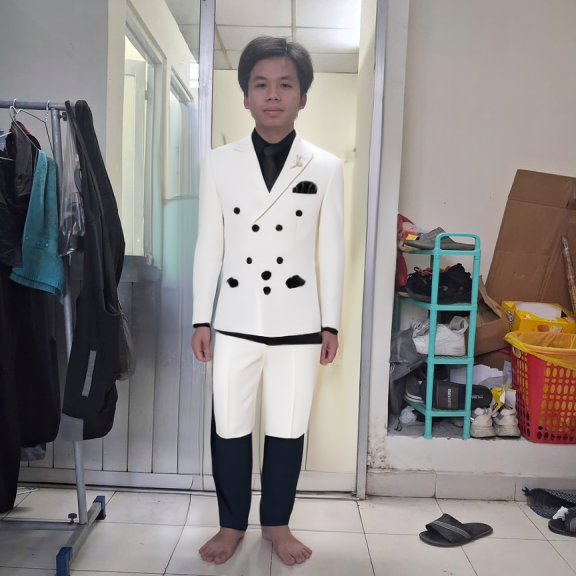
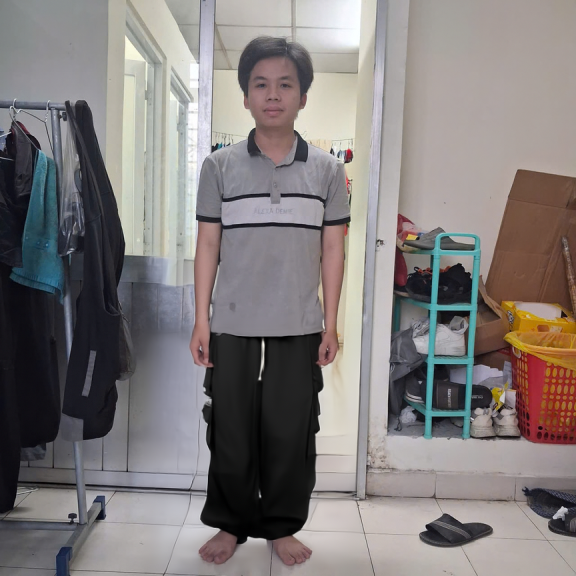
Upload collect data

Changed region(s): [[0.25, 0.1562, 0.7188, 0.9688], [0.6562, 0.5, 0.6875, 0.5312]]

diff --git a/backend/Commercial_Server/models/User.js b/backend/Commercial_Server/models/User.js
@@ -1,0 +1,27 @@
+class User {
+  constructor({
+    id,
+    username,
+    passwordHash, // nên trùng với cột DB password_hash
+    firstName,
+    lastName,
+    address,
+    idCard,
+    phone,
+    createdAt, // nếu muốn lấy created_at từ DB
+    lastLogin,
+  }) {
+    this.id = id; // auto-increment trong DB
+    this.username = username; // để login
+    this.passwordHash = passwordHash; // lưu hash, không lưu plain text
+    this.firstName = firstName;
+    this.lastName = lastName;
+    this.address = address;
+    this.idCard = idCard;
+    this.phone = phone;
+    this.createdAt = createdAt;
+    this.lastLogin = lastLogin;
+  }
+}
+
+module.exports = User;

diff --git a/collect_data/main.py b/collect_data/main.py
@@ -1,0 +1,206 @@
+from roboflow import Roboflow
+
+def download_data(
+    api_key="inr9jRHmkEY62398BiMk",
+    workspace="duys-workspace-4jeqe",
+    project_name="human-front-zfmgf",
+    version_number=1,
+    format_type="yolov8"   # classification format
+):
+    """
+    Download dataset từ Roboflow (classification).
+
+    Args:
+        api_key (str): Roboflow API key
+        workspace (str): Workspace name
+        project_name (str): Project name
+        version_number (int): Dataset version
+        format_type (str): Dataset format (multiclass cho classification)
+
+    Returns:
+        dataset: Dataset object
+    """
+
+    rf = Roboflow(api_key=api_key)
+
+    project = rf.workspace(workspace).project(project_name)
+
+    version = project.version(version_number)
+
+    dataset = version.download(format_type)
+
+    print("✅ Download completed!")
+
+    return dataset
+
+import shutil
+from pathlib import Path
+
+
+def get_image_label(label_path):
+    """
+    Đọc label YOLO txt và quyết định label cho image.
+
+    Return:
+        0 hoặc 1 nếu hợp lệ
+        None nếu bỏ ảnh
+    """
+
+    if not label_path.exists():
+        return None
+
+    labels = []
+
+    with open(label_path, "r") as f:
+        lines = f.readlines()
+
+    for line in lines:
+        parts = line.strip().split()
+
+        if len(parts) == 0:
+            continue
+
+        cls_id = int(parts[0])
+
+        # chỉ lấy class 0 hoặc 1
+        if cls_id in [0, 1]:
+            labels.append(cls_id)
+
+    if len(labels) == 0:
+        return None
+
+    unique_labels = set(labels)
+
+    # nếu nhiều obj cùng label
+    if len(unique_labels) == 1:
+        return unique_labels.pop()
+
+    # nếu khác label → bỏ
+    return None
+
+
+def process_split(src_split_path, dst_split_path):
+    """
+    Xử lý từng split: train / valid / test
+    """
+
+    images_dir = src_split_path / "images"
+    labels_dir = src_split_path / "labels"
+
+    if not images_dir.exists():
+        return
+
+    # tạo folder class 0 và 1
+    (dst_split_path / "0").mkdir(parents=True, exist_ok=True)
+    (dst_split_path / "1").mkdir(parents=True, exist_ok=True)
+
+    image_files = list(images_dir.glob("*.*"))
+
+    kept = 0
+    skipped = 0
+
+    for img_path in image_files:
+
+        label_path = labels_dir / (img_path.stem + ".txt")
+
+        img_label = get_image_label(label_path)
+
+        if img_label is None:
+            skipped += 1
+            continue
+
+        dst_img_path = (
+            dst_split_path
+            / str(img_label)
+            / img_path.name
+        )
+
+        shutil.copy(img_path, dst_img_path)
+
+        kept += 1
+
+    print(f"{src_split_path.name}: kept={kept}, skipped={skipped}")
+
+
+def collect_data():
+    """
+    Convert YOLOv8 detection dataset
+    → classification dataset
+    """
+
+    # dataset gốc
+    src_root = Path("./human-front-1")
+
+    # dataset mới
+    dst_root = Path("./human_front_back")
+
+    splits = ["train", "valid", "test"]
+
+    for split in splits:
+
+        src_split = src_root / split
+        dst_split = dst_root / split
+
+        process_split(src_split, dst_split)
+
+    print("\nDone collecting dataset!")
+
+from pathlib import Path
+
+def print_class_distribution(root_path="./human_front_back"):
+    """
+    In số lượng ảnh mỗi class trong từng split.
+
+    Args:
+        root_path: đường dẫn dataset classification
+    """
+
+    root = Path(root_path)
+
+    splits = ["train", "valid", "test"]
+
+    total_0 = 0
+    total_1 = 0
+
+    print("\n📊 Dataset Distribution:\n")
+
+    for split in splits:
+
+        split_path = root / split
+
+        class_0_dir = split_path / "0"
+        class_1_dir = split_path / "1"
+
+        count_0 = len(list(class_0_dir.glob("*.*")))
+        count_1 = len(list(class_1_dir.glob("*.*")))
+
+        total_0 += count_0
+        total_1 += count_1
+
+        print(f"{split.upper()}:")
+        print(f"  class 0: {count_0}")
+        print(f"  class 1: {count_1}")
+        print()
+
+    print("TOTAL:")
+    print(f"  class 0: {total_0}")
+    print(f"  class 1: {total_1}")
+
+    # tính tỉ lệ %
+    total = total_0 + total_1
+
+    if total > 0:
+        p0 = total_0 / total * 100
+        p1 = total_1 / total * 100
+
+        print("\nRatio:")
+        print(f"  class 0: {p0:.2f}%")
+        print(f"  class 1: {p1:.2f}%")
+
+# Chạy trực tiếp file
+if __name__ == "__main__":
+    # download_data()
+    # collect_data()
+    print_class_distribution()
+
+    

diff --git a/backend/AI_Server/model/vton_model.py b/backend/AI_Server/model/vton_model.py
@@ -1,7 +1,7 @@
 from abc import ABC, abstractmethod
 from PIL import Image
-from config.vton_model_config import FashnVtonModelConfig
-from fashn_vton_1_5.src.fashn_vton.pipeline import TryOnPipeline
+from ..config.vton_model_config import FashnVtonModelConfig
+from ..fashn_vton_1_5.src.fashn_vton.pipeline import TryOnPipeline
 from typing import Literal, Tuple, List
 
 class VTonModel(ABC):
@@ -55,9 +55,6 @@ class FashnVtonModel(VTonModel):
 
 
 import os
-from PIL import Image
-from config.vton_model_config import FashnVtonModelConfig
-
 if __name__ == "__main__":
     # ==== Cấu hình model ====
     config = FashnVtonModelConfig(
@@ -70,8 +67,8 @@ if __name__ == "__main__":
     # ==== Đường dẫn input ====
     person_path = "./person.jpg"
     garments_info = [
-        ("./white_suit.jpg", "tops"),
-        ("./white_suit.jpg", "bottoms"),
+        ("./T_shirt.webp", "tops"),
+        ("./jogger.webp", "bottoms"),
         # thêm garment khác nếu muốn
     ]
 
